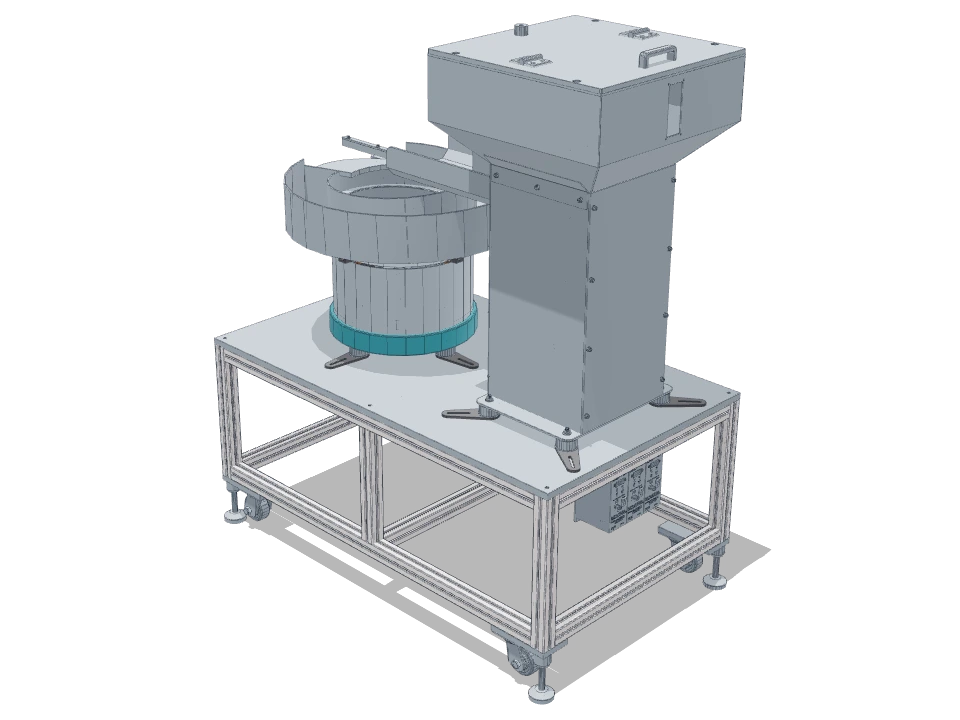
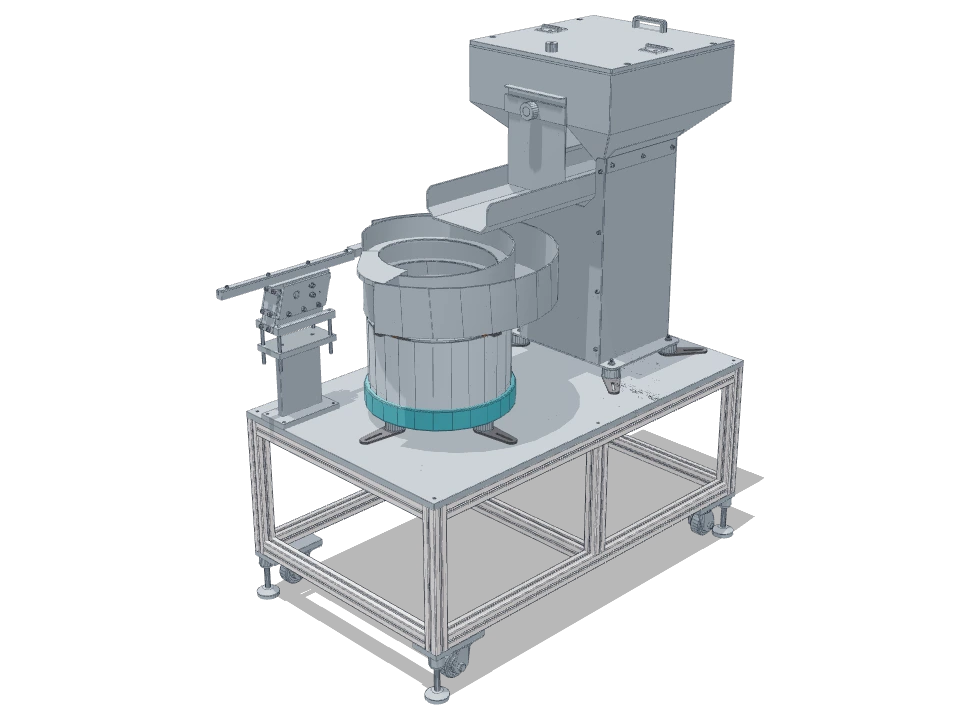
14번을 정면으로 돌리고, 첫 장을 「11번 조립」으로
유신 — "현재 14번 경우는 뒤로 돌아있는거 같아 보이는데 이것도 다른 것처럼
정면을 보게 해주면 좋겠고 볼피더 이렇게 하지 말고 11번 조립 이렇게 같이
통일감 있게 텍스트를 바꿔야 할거 같고"

14번 — 방위 45° → 315°
  앞 판(bbd9c48)에서 13·17 과 함께 45 로 돌렸는데 모자랐다. 45 에서는
  엘리베이터 기둥이 볼과 보는 눈 사이에 선다 — 볼이 왼쪽으로 밀려 반쯤
  가리고 캐비닛 민짜 옆면이 화면 절반을 먹어, 혼자 "뒤"로 읽혔다.
  315 에서는 볼이 한가운데 서고 입구가 열려 보이며, 호퍼 슈트가 캐비닛에서
  볼로 뻗는 것까지 보인다 — 14번을 14번이게 하는 부품이다.
  채움은 세로 95.6 / 가로 55.2 → 54.8, 중앙 156. 다시 잡을 것이 없었다.
  -02 는 그대로 둔다 — 135° 라 315° 의 정확히 반대쪽이다.

첫 장 — 「볼피더 / BOWL FEEDER」 → 「11번 조립 / PARTS FEEDER」
  판 (224) 에서는 그 페이지에 볼피더 영상과 특징 사진 넷이 걸려 있어
  글이 어긋날까 봐 이름을 남겼는데, 유신이 물리셨다.
  카드가 쓰는 줄은 분류·이름·영문 셋인데 뒤의 둘이 어긋나 있었다.
  둘 다 바꿨다 — 이름만 바꾸면 「11번 조립 / BOWL FEEDER」가 된다.
  기종들의 이름 한 줄이 일곱 쪽 규격표 첫 행 라벨까지 저절로 바꾼다.

안 건드린 것
  · 주소 — slug "bowl-feeder" 그대로다. related 아홉이 여기를 가리키고
    바깥 링크도 여기로 모인다. 「직진피더 → 리니어피더」 때와 같은 판단이다
  · 구동 영상 · 특징 사진 넷 · KPI 넷(에러율 0.1% 는 유신이 바로잡아 주신
    값) · 볼 형식표(1호~Ø500) — 이 기계의 진짜 자료다
  · videos.ts · works.ts · videoLibrary.ts 의 "볼피더" — 기계 종류를
    가리키는 말이지 이 제품의 이름이 아니다
  · 11·12·13·15·16·17 의 각도

검사 — 빌드 통과, 라인업 20장, 파츠피더 일곱이 11~17번 차례대로,
영문 줄 일곱이 한 값, 깨진 그림 0, bowl-feeder 200 에 영상 그대로.
검사 쪽 허물 하나를 함께 고쳤다 — 카드의 대문자는 CSS 가 만드는 것이라
textContent 는 "Parts Feeder" 다. 대문자 리터럴로 재면 늘 틀린다.

Changed region(s): [[0.2188, 0.0, 0.8125, 0.9778], [0.5625, 0.3361, 0.5938, 0.3667]]

diff --git a/src/data/products.ts b/src/data/products.ts
@@ -1695,13 +1695,23 @@ const 컨트롤러제품들: Product[] = 컨트롤러기종들.map((m) => ({
  * ⚠ **일곱이 전부 다른 기계다.** 면 수 2,904~12,362, 프레임 세 가지, 리니어
  *    네 가지 — 복사본이 하나도 없다. 컨트롤러 여섯과는 정반대다.
  *
- * ⚠⚠ **11번은 따로 세우지 않았다.** 11번 렌더는 기존 `bowl-feeder` 카드의
- *    그림으로 들어갔다. 그 페이지에는 볼피더 영상과 특징 사진 넷이 걸려 있고
- *    lead 가 "계단형 · 단종형 · 접시형 · 원통형" 을 말한다 — 이름만 「11번
- *    조립」으로 바꾸면 **페이지가 제 글과 어긋난다**
- *    [[dont-cure-symptom-by-removing-function]]. 그래서 카드는 일곱이고
- *    첫 장만 「볼피더」다. 11번을 따로 세우려면 아래 기종들의 `기존` 을 지우고
- *    `bowl-feeder` 의 `name` 을 바꾸면 된다.
+ * ⚠⚠ **11번은 제품을 새로 만들지 않는다 — 기존 `bowl-feeder` 가 11번이다.**
+ *    렌더도 이름도 그 자리에 들어갔다. 처음 판(224)에서는 이름을 「볼피더」로
+ *    두었는데(그 페이지에 볼피더 영상과 특징 사진 넷이 걸려 있어 글이 어긋날까
+ *    봐), 유신이 *"볼피더 이렇게 하지 말고 11번 조립 이렇게 같이 통일감 있게
+ *    텍스트를 바꿔야 할거 같고"* 라 하셔서 **물렸다**
+ *    [[user-repeats-means-stop-arguing]]. 카드가 쓰는 줄은 분류 · 이름 · 영문
+ *    셋인데 뒤의 둘이 어긋나 있었다 — **둘 다 바꿨다**(이름만 바꾸면
+ *    「11번 조립 / BOWL FEEDER」가 된다 [[count-roles-before-removing]]).
+ *
+ * ⚠⚠ **주소는 안 바꿨다.** `slug: "bowl-feeder"` 그대로다 — `related` 아홉이
+ *    여기를 가리키고 바깥 링크도 여기로 모인다. 「직진피더 → 리니어피더」 때와
+ *    같은 판단이고 그 선례가 파일 머리 주석에 있다(*"주소는 안 바뀌었다"*).
+ * ⚠ **「볼피더」라는 낱말을 다 지운 것이 아니다.** `videos.ts` · `works.ts` ·
+ *    `videoLibrary.ts` 의 「볼피더」는 **기계 종류를 가리키는 말**이지 이 제품의
+ *    이름이 아니다. 그대로 둔다. 이름으로 제품을 찾는 코드는 없다.
+ * ⚠ 구동 영상 · 특징 사진 넷 · KPI 넷(에러율 **0.1% 는 유신이 바로잡아 주신
+ *    값**) · 볼 형식표(1호~Ø500)는 **그대로 둔다.** 이 기계의 진짜 자료다.
  *
  * ⚠ **이름은 아직 못 받았다.** 「12번 조립」~「17번 조립」은 **파일 번호를 그대로
  *    쓴 임시 이름**이다. 형식명을 받으면 세 곳을 함께 간다 — 아래 `이름`,
@@ -1731,7 +1741,8 @@ const 컨트롤러제품들: Product[] = 컨트롤러기종들.map((m) => ({
 const 파츠피더기종들 = [
   {
     번호: 11,
-    이름: "볼피더",
+    /* ⚠ 이 한 줄이 **일곱 쪽 규격표의 첫 행 라벨**을 함께 바꾼다. */
+    이름: "11번 조립",
     /** 이 한 줄이 있으면 제품을 새로 만들지 않는다 — 위 ⚠⚠ 참고. */
     기존: "bowl-feeder",
     높이: 1487,
@@ -1989,12 +2000,16 @@ const 파츠피더제품들: Product[] = 파츠피더기종들
 export const products: Product[] = [
   {
     slug: "bowl-feeder",
-    name: "볼피더",
-    nameEn: "Bowl Feeder",
+    /* ⚠ 이름 두 줄은 **함께** 간다 — 위 기종들 주석 참고. 주소는 그대로다. */
+    name: "11번 조립",
+    nameEn: "Parts Feeder",
     category: "파츠피더",
     tagline: "흩어진 부품을 진동으로 끌어올려 한 방향으로 정렬해 공급합니다.",
     summary: "부품 공급 라인의 첫 단계를 맡는 진동식 파츠피더 본체입니다.",
-    lead: "볼피더는 소형부터 대형까지 다양한 기종이 있고, 부품에 따라 계단형·단종형·접시형·원통형으로 제작됩니다. 볼 내부의 정렬 지그는 부품 형상을 분석해 하나하나 직접 설계·가공합니다.",
+    /* ⚠ 90~105자. 화면에는 안 나오고 검색 결과 설명으로만 쓰인다.
+       첫 구절이 제 이름을 부르던 자리라 함께 갈았다 — 뒷문장(볼 형상과
+       정렬 지그)은 이 기계에 그대로 맞는 말이라 살려 두었다. */
+    lead: "11번 조립은 전체 높이 1,487mm, 설치 면적 1,930 × 861mm 로 지은 파츠피더 한 벌입니다. 볼은 부품에 따라 계단형·단종형·접시형·원통형으로 만들고, 정렬 지그는 형상을 분석해 하나하나 직접 설계·가공합니다.",
     features: [
       {
         title: "부품별 맞춤 볼 설계",
